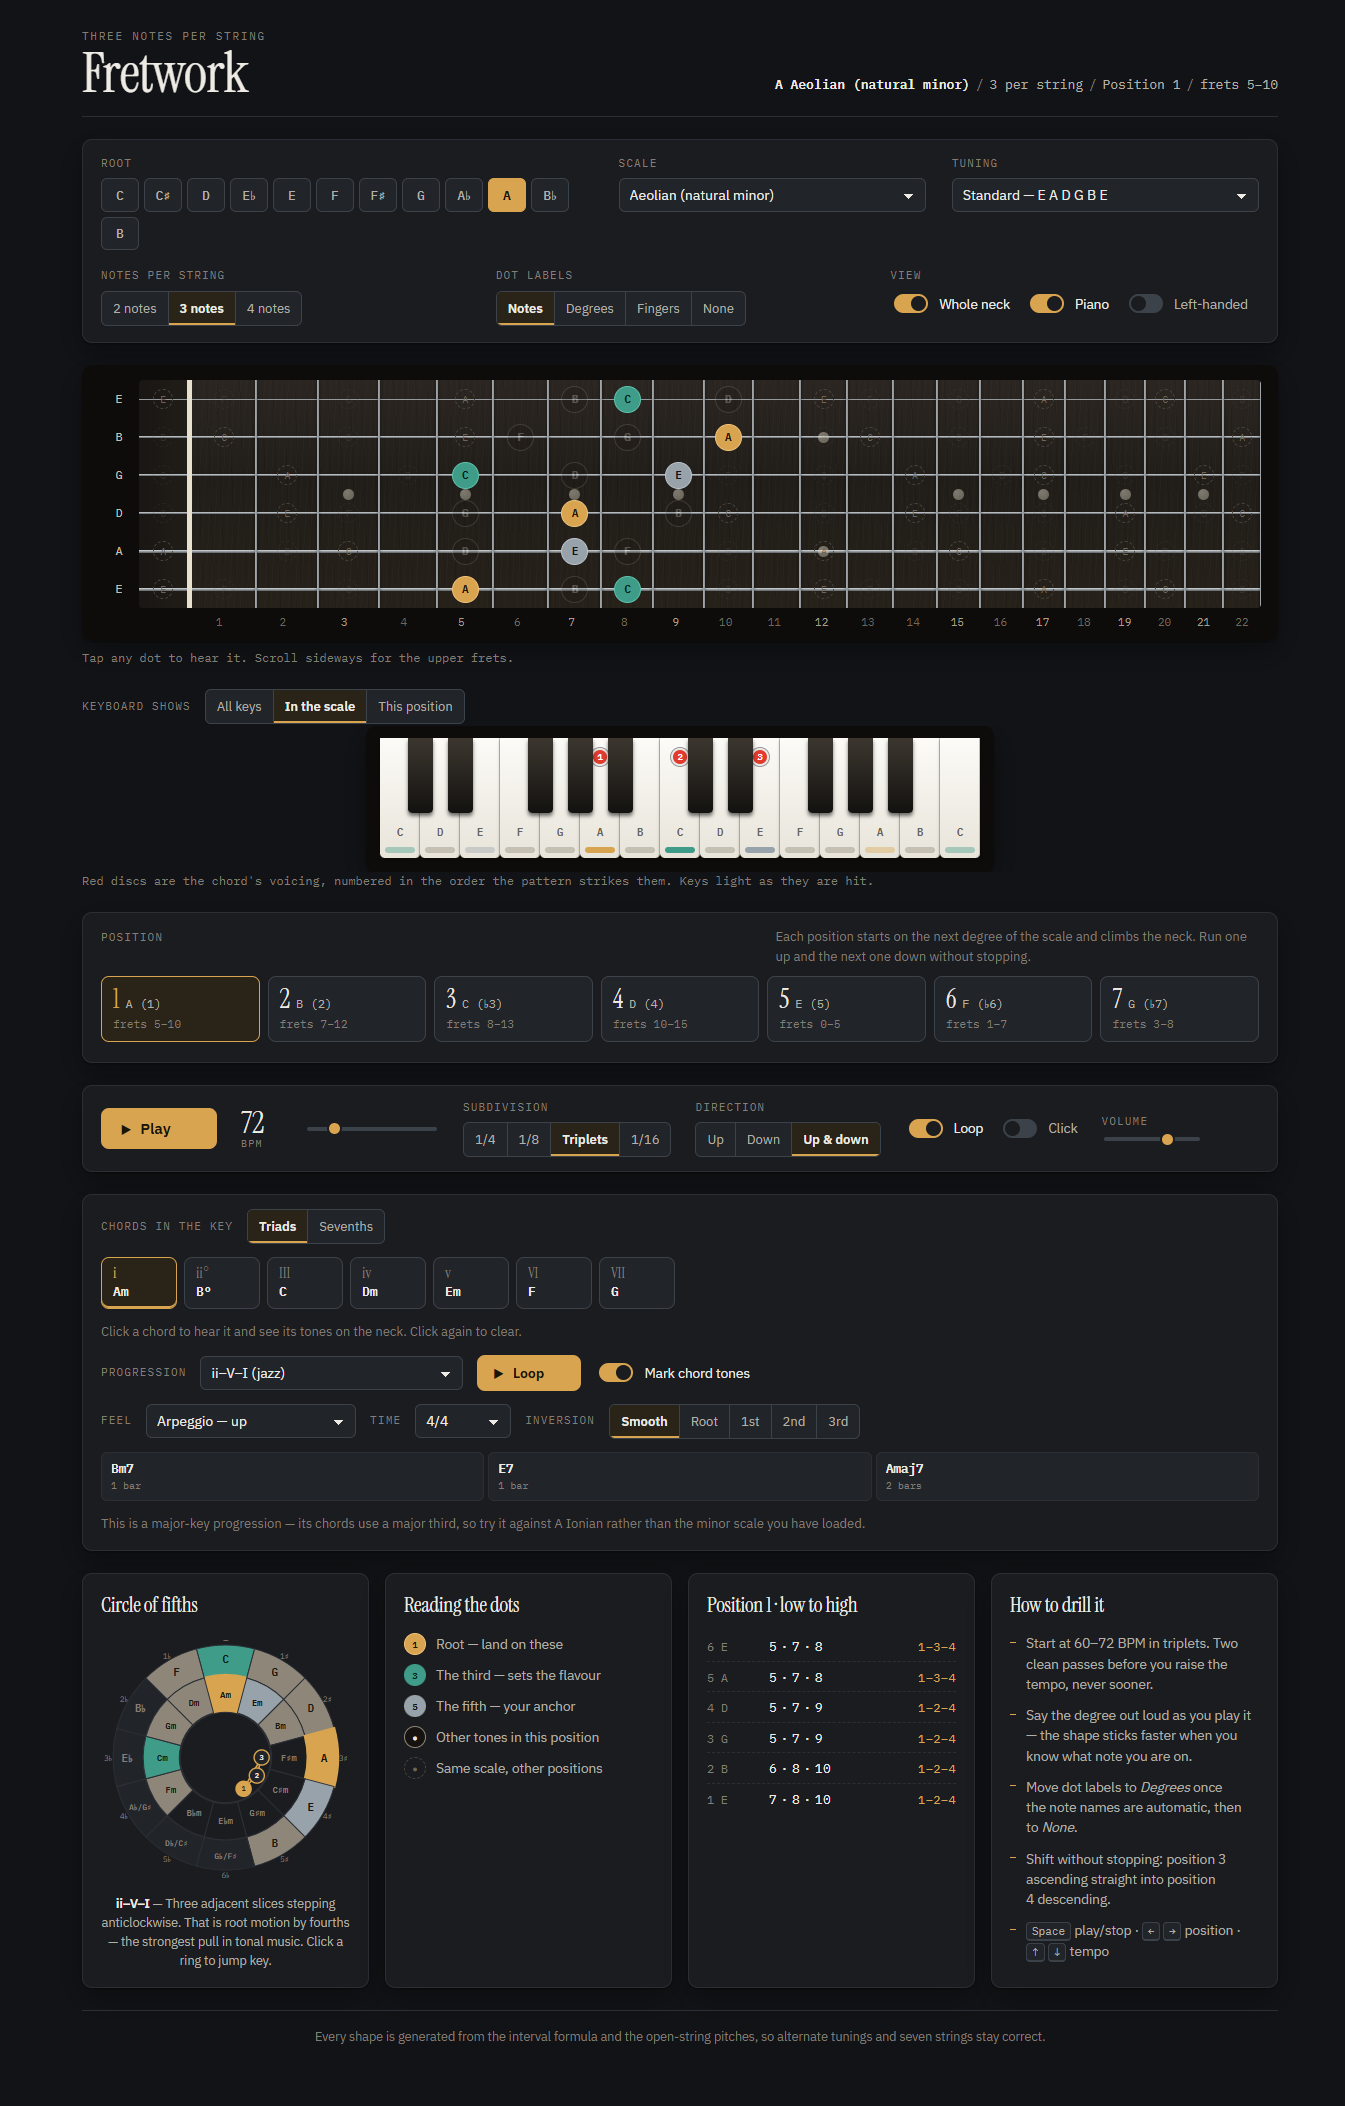
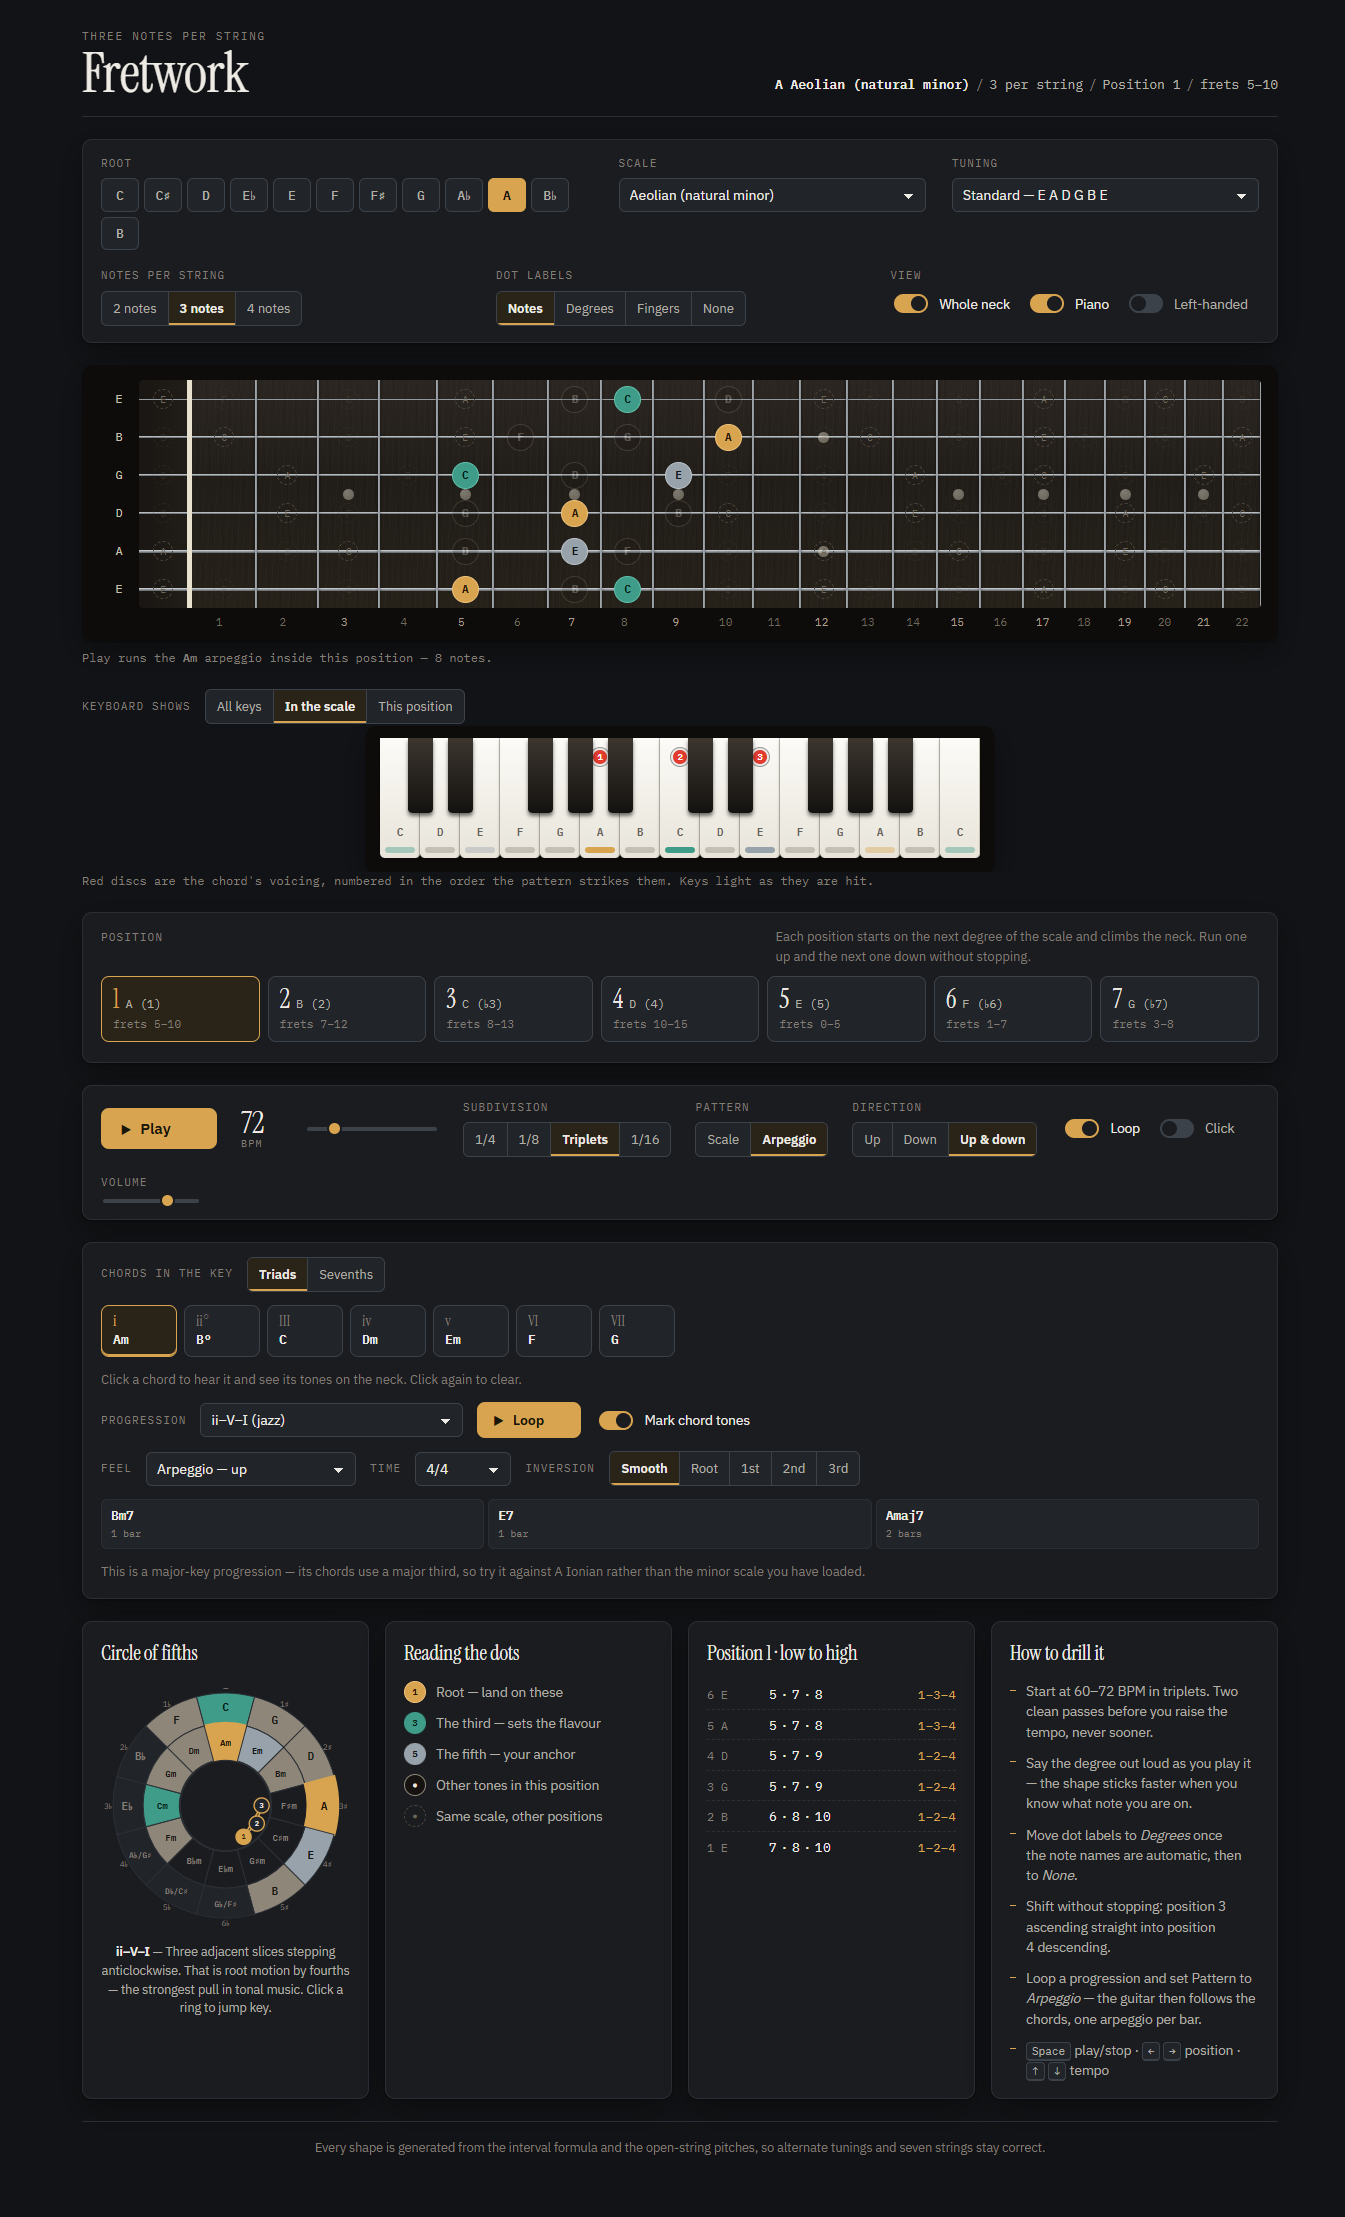
Guitar can run arpeggios, not just scales
Adds a Pattern control beside Direction: Scale or Arpeggio. In arpeggio
mode the position is filtered to the tones of whatever chord is in
force -- the looping progression's current chord, else a pinned chord,
else the tonic -- so the shape you are drilling stays the shape you
play. Up, down and up-and-down all still apply.

With a progression looping, the arpeggio follows the changes and
restarts from the bottom at each chord.

Scales with no stack of thirds were left with no arpeggio at all, which
is wrong for exactly the players who most want one. A tonic chord is
now derived from the scale's own degrees, so minor pentatonic gives Am,
blues gives Am7 with sevenths on, and whole tone gives A+ (the fifth
preference takes #5 before b5 so it reads as augmented, not flat-five).

Claude-Session: https://claude.ai/code/session_01AfxrZKbjk62vFmj4er5mPs

diff --git a/index.html b/index.html
@@ -420,6 +420,10 @@ footer{font-size:12.5px; color:var(--ink-3); text-align:center; border-top:1px s
       <div class="seg" id="divSeg" role="group" aria-labelledby="divLbl"></div>
     </div>
     <div class="t-group">
+      <span class="ctl-label" style="margin:0" id="patLbl">Pattern</span>
+      <div class="seg" id="patSeg" role="group" aria-labelledby="patLbl"></div>
+    </div>
+    <div class="t-group">
       <span class="ctl-label" style="margin:0" id="dirLbl">Direction</span>
       <div class="seg" id="dirSeg" role="group" aria-labelledby="dirLbl"></div>
     </div>
@@ -485,6 +489,7 @@ footer{font-size:12.5px; color:var(--ink-3); text-align:center; border-top:1px s
         <li>Say the degree out loud as you play it &mdash; the shape sticks faster when you know what note you are on.</li>
         <li>Move dot labels to <em>Degrees</em> once the note names are automatic, then to <em>None</em>.</li>
         <li>Shift without stopping: position 3 ascending straight into position 4 descending.</li>
+        <li>Loop a progression and set Pattern to <em>Arpeggio</em> &mdash; the guitar then follows the chords, one arpeggio per bar.</li>
         <li><kbd>Space</kbd> play/stop &middot; <kbd>&larr;</kbd> <kbd>&rarr;</kbd> position &middot; <kbd>&uarr;</kbd> <kbd>&darr;</kbd> tempo</li>
       </ul>
     </div>
@@ -683,7 +688,7 @@ function styleEvents(id, steps, notes){
 var state = {
   rootIdx:9, scaleId:"aeolian", tuneId:"std", nps:3, pos:0,
   sevenths:false, progId:"none", targets:true, pinned:null,
-  style:"block", ts:"4/4", inv:"smooth",
+  style:"block", ts:"4/4", inv:"smooth", playWhat:"scale",
   labels:"note", showAll:true, lefty:false, piano:true, pkeys:"scale",
   bpm:72, div:3, dir:"updown", loop:true, metro:false, vol:0.7, playing:false
 };
@@ -1065,6 +1070,39 @@ function timesig(){
   return TIMESIGS[2];
 }
 
+/* Pentatonic, blues and the symmetric scales have no stack of thirds, but
+   they still contain a tonic chord — build it from the scale's own degrees. */
+function tonicChordFromScale(){
+  var degs = degList(), iv = degs.map(function(d){ return d.semi; });
+  var has = function(x){ return iv.indexOf(x) >= 0; };
+  var third = has(4) ? 4 : has(3) ? 3 : null;
+  var fifth = has(7) ? 7 : has(8) ? 8 : has(6) ? 6 : null;   // #5 before b5, so whole tone reads as augmented
+  if(third === null || fifth === null) return null;
+  var ints = [0, third, fifth];
+  if(state.sevenths){
+    var sev = has(11) ? 11 : has(10) ? 10 : null;
+    if(sev !== null) ints.push(sev);
+  }
+  var r = root(), q = null, key = ints.join(",");
+  for(var name in QUAL){ if(QUAL[name].ints.join(",") === key){ q = name; break; } }
+  return {
+    rootPc:r.pc, q:q || "maj",
+    sym:spell(degs[0]) + (q ? QUAL[q].sym : ""),
+    pcs:ints.map(function(x){ return (r.pc + x) % 12; })
+  };
+}
+/* what the guitar arpeggiates: whatever chord is currently in force */
+function activeChord(){
+  if(bk.playing){
+    var ch = progChords();
+    if(ch.length) return ch[(bk.shown >= 0 ? bk.shown : 0) % ch.length];
+  }
+  var dia = diatonicChords();
+  if(state.pinned && dia && dia[state.pinned.i]) return dia[state.pinned.i];
+  if(dia && dia.length) return dia[0];
+  return tonicChordFromScale();
+}
+
 function drawHarmony(){
   var chords = diatonicChords();
   var row = $("#chordRow"), note = $("#chordNote");
@@ -1324,9 +1362,29 @@ function drawBoard(){
       '<div class="track">' + nums + "</div>" +
     "</div>";
 
-  $("#hint").innerHTML = shape.complete
-    ? "Tap any dot to hear it. Scroll sideways for the upper frets."
-    : '<span class="warn">This position runs past fret ' + MAXFRET + " &mdash; notes off the end of the neck are hidden.</span>";
+  updateHint();
+}
+
+function updateHint(){
+  if(!shape.complete){
+    $("#hint").innerHTML = '<span class="warn">This position runs past fret ' + MAXFRET +
+      " &mdash; notes off the end of the neck are hidden.</span>";
+    return;
+  }
+  if(state.playWhat === "arp"){
+    var c = activeChord();
+    var n = 0;
+    if(c){
+      var set = {};
+      c.pcs.forEach(function(p){ set[p] = true; });
+      n = shape.notes.filter(function(nt){ return set[nt.pc]; }).length;
+    }
+    $("#hint").innerHTML = c && n >= 2
+      ? "Play runs the <b>" + c.sym + "</b> arpeggio inside this position &mdash; " + n + " notes."
+      : "No arpeggio for this chord sits inside the position, so Play runs the scale.";
+    return;
+  }
+  $("#hint").innerHTML = "Tap any dot to hear it. Scroll sideways for the upper frets.";
 }
 
 function drawPositions(){
@@ -1444,6 +1502,15 @@ function click(when, strong){
 var seq = [], step = 0, nextTime = 0, timer = null, visQ = [], lastLit = [], endAt = null;
 function buildSequence(){
   var up = shape.notes.slice();
+  if(state.playWhat === "arp"){
+    var c = activeChord();
+    if(c){
+      var set = {};
+      c.pcs.forEach(function(p){ set[p] = true; });
+      var only = up.filter(function(nt){ return set[nt.pc]; });
+      if(only.length >= 2) up = only;   // keep the scale if the shape has no arpeggio in it
+    }
+  }
   if(state.dir === "up") seq = up;
   else if(state.dir === "down") seq = up.slice().reverse();
   else seq = up.concat(up.slice(1, up.length - 1).reverse());
@@ -1605,6 +1672,11 @@ function bkPaint(){
     }
     applyMarks();
     drawPiano();
+    updateHint();
+    if(state.playing && state.playWhat === "arp"){
+      step = 0;          // each chord starts its arpeggio from the bottom
+      buildSequence();
+    }
     bk.lit = [];        // the redraw dropped the old elements
     hit = hit || bk.lastHit;
   }
@@ -1740,6 +1812,8 @@ function buildControls(){
     });
     applyMarks();
     drawPiano();
+    updateHint();
+    if(state.playing && state.playWhat === "arp") buildSequence();
   });
 
   seg($("#pkSeg"),
@@ -1753,6 +1827,13 @@ function buildControls(){
   seg($("#divSeg"),
     [{v:1,t:"1/4"},{v:2,t:"1/8"},{v:3,t:"Triplets"},{v:4,t:"1/16"}],
     state.div, function(v){ state.div = v; });
+
+  seg($("#patSeg"), [{v:"scale",t:"Scale"},{v:"arp",t:"Arpeggio"}],
+    state.playWhat, function(v){
+      state.playWhat = v; step = 0;
+      if(state.playing) buildSequence();
+      updateHint();
+    });
 
   seg($("#dirSeg"),
     [{v:"up",t:"Up"},{v:"down",t:"Down"},{v:"updown",t:"Up &amp; down"}],

diff --git a/README.md b/README.md
@@ -24,7 +24,7 @@ One self-contained HTML file. No build step, no dependencies, no backend.
 
 Each progression is also drawn on the circle of fifths as root motion. ii–V–I is three adjacent slices stepping anticlockwise; the diatonic circle is a full loop with one long diagonal across it, the tritone jump where the key runs out of perfect fifths.
 
-**Playback** — plays the position with a Karplus–Strong plucked-string voice, following each note on both instruments. 40–220 BPM, quarters/eighths/triplets/sixteenths, up / down / up-and-down, loop, metronome. Click any dot or key to hear it alone.
+**Playback** — plays the position with a Karplus–Strong plucked-string voice, following each note on both instruments. **Pattern** switches between running the scale and running the **arpeggio** of whatever chord is in force — and if a progression is looping, the arpeggio follows it, restarting from the bottom on each chord. Scales without a stack of thirds still get one: a tonic chord is derived from the scale's own degrees, so minor pentatonic arpeggiates Am and whole tone arpeggiates A+. 40–220 BPM, quarters/eighths/triplets/sixteenths, up / down / up-and-down, loop, metronome. Click any dot or key to hear it alone.
 
 **20 scales** — all seven major modes, harmonic and melodic minor, phrygian dominant, lydian dominant, altered, both pentatonics, minor and major blues, whole tone, both diminished scales, and chromatic.
 
